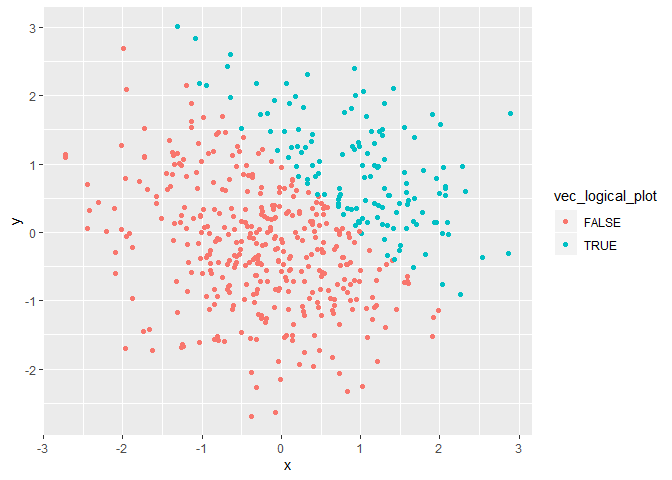
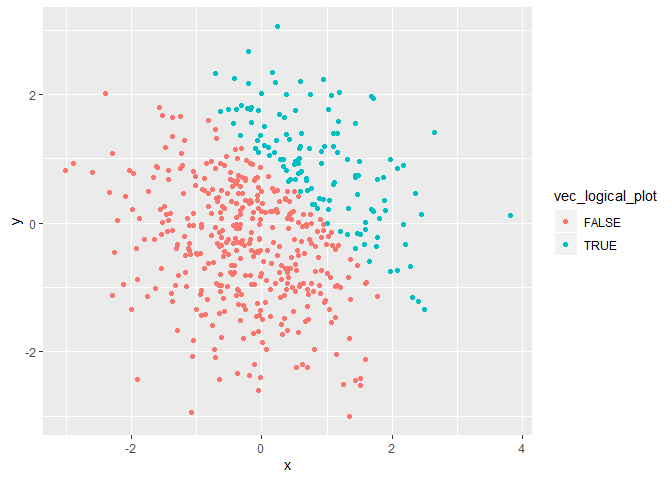
Real final homework 1 with formatting code

diff --git a/p8105_hw1_yx2507.md b/p8105_hw1_yx2507.md
@@ -14,13 +14,14 @@ length 8; a factor vector of length 8, with 3 different factor “levels”.
 Below shows the code and the result:
 
 ``` r
+set.seed(1)
  problem_1 = tibble(
    vec_numeric=rnorm(8),
    vec_logical=vec_numeric>0,
    vec_char=c("a","b","c","d","e","f","g","h"),
    vec_factor = factor(c("M","F","M","F","M","F","M","F"))
-
  ) 
+ 
 #CHECK DATA FRAME
 problem_1
 ```
@@ -28,14 +29,14 @@ problem_1
     ## # A tibble: 8 x 4
     ##   vec_numeric vec_logical vec_char vec_factor
     ##         <dbl> <lgl>       <chr>    <fct>     
-    ## 1      0.989  TRUE        a        M         
-    ## 2     -0.921  FALSE       b        F         
-    ## 3     -2.08   FALSE       c        M         
-    ## 4     -2.07   FALSE       d        F         
-    ## 5      0.691  TRUE        e        M         
-    ## 6     -0.0151 FALSE       f        F         
-    ## 7     -1.16   FALSE       g        M         
-    ## 8     -1.12   FALSE       h        F
+    ## 1      -0.626 FALSE       a        M         
+    ## 2       0.184 TRUE        b        F         
+    ## 3      -0.836 FALSE       c        M         
+    ## 4       1.60  TRUE        d        F         
+    ## 5       0.330 TRUE        e        M         
+    ## 6      -0.820 FALSE       f        F         
+    ## 7       0.487 TRUE        g        M         
+    ## 8       0.738 TRUE        h        F
 
 Data frame called problem\_1 is created, containing four vairables:
 numeric varaiable“vec\_numeric”, logical variable“vec\_logical”,
@@ -52,13 +53,13 @@ for logical variable`vec_logical`because it will convert `True`to 1 and
 mean(problem_1$vec_numeric)
 ```
 
-    ## [1] -0.7116455
+    ## [1] 0.1314544
 
 ``` r
 mean(problem_1$vec_logical)
 ```
 
-    ## [1] 0.25
+    ## [1] 0.625
 
 When trying to calculate the mean for character variable “vec\_char” and
 factor variable“vec\_factor”, warning shows up with N/A result. Mean
@@ -113,8 +114,8 @@ after it multiply by a random
 as.numeric(problem_1$vec_logical)*rnorm(8)
 ```
 
-    ## [1] 0.4740357 0.0000000 0.0000000 0.0000000 0.9067296 0.0000000 0.0000000
-    ## [8] 0.0000000
+    ## [1]  0.00000000 -0.30538839  0.00000000  0.38984324 -0.62124058  0.00000000
+    ## [7]  1.12493092 -0.04493361
 
 It’s now meaningful to multiply a factor vairable which is converted
 from a logical variable to and random sample. N/A and warning sign shows
@@ -138,8 +139,8 @@ factor varaible to a numeric vairable and then multiply a random
 as.numeric(as.factor(problem_1$vec_logical))*rnorm(8)
 ```
 
-    ## [1] -3.3998481 -0.1965194 -1.0187077  0.7064674  3.1792199  1.0127288
-    ## [7]  0.2367305  0.1020239
+    ## [1]  0.6198257 -0.1122575 -0.1557955 -2.9415048 -0.9563001  0.4179416
+    ## [7]  2.7173591 -0.2055755
 
 # Problem 2 Including Plots
 
@@ -152,7 +153,7 @@ standard Normal distribution A logical vector indicating whether x + y
 factor vector created by coercing the above logical vector
 
 ``` r
-set.seed(2)
+set.seed(1)
   x=rnorm(500)
   y=rnorm(500)
   vec_logical_plot= x + y > 1
@@ -165,19 +166,19 @@ head(plot_df)
 ```
 
     ## # A tibble: 6 x 5
-    ##         x      y vec_logical_plot vec_fact vec_num
-    ##     <dbl>  <dbl> <lgl>            <fct>      <dbl>
-    ## 1 -0.897  -0.460 FALSE            FALSE          0
-    ## 2  0.185   0.618 FALSE            FALSE          0
-    ## 3  1.59   -0.720 FALSE            FALSE          0
-    ## 4 -1.13   -0.584 FALSE            FALSE          0
-    ## 5 -0.0803  0.216 FALSE            FALSE          0
-    ## 6  0.132   1.24  TRUE             TRUE           1
+    ##        x       y vec_logical_plot vec_fact vec_num
+    ##    <dbl>   <dbl> <lgl>            <fct>      <dbl>
+    ## 1 -0.626  0.0773 FALSE            FALSE          0
+    ## 2  0.184 -0.297  FALSE            FALSE          0
+    ## 3 -0.836 -1.18   FALSE            FALSE          0
+    ## 4  1.60   0.0113 TRUE             TRUE           1
+    ## 5  0.330  0.992  TRUE             TRUE           1
+    ## 6 -0.820  1.59   FALSE            FALSE          0
 
 The number of rows in `plot_df` is 500 columns is 5. The mean of x in
-the dataframe is 0.0616923. The median of the sample is 0.0439172.The
-standard deviation of the sample is1.0323776 The proportion of x+y\>1 is
-0.266
+the dataframe is 0.0226441. The median of the sample is -0.0367783.The
+standard deviation of the sample is1.0119283 The proportion of x+y\>1 is
+0.252
 
 ## Create scatterplot
 
